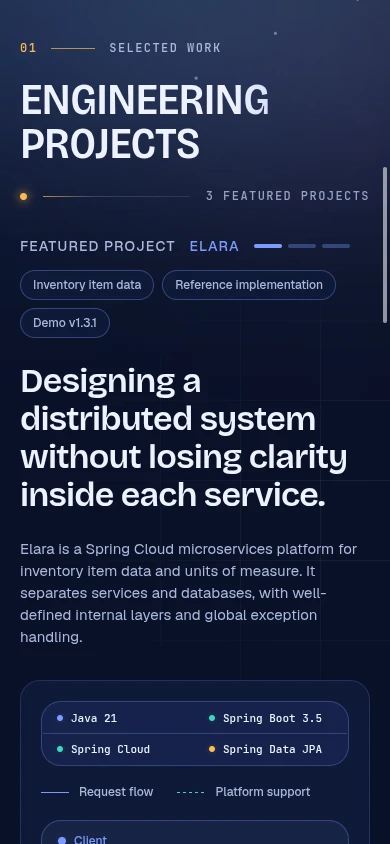
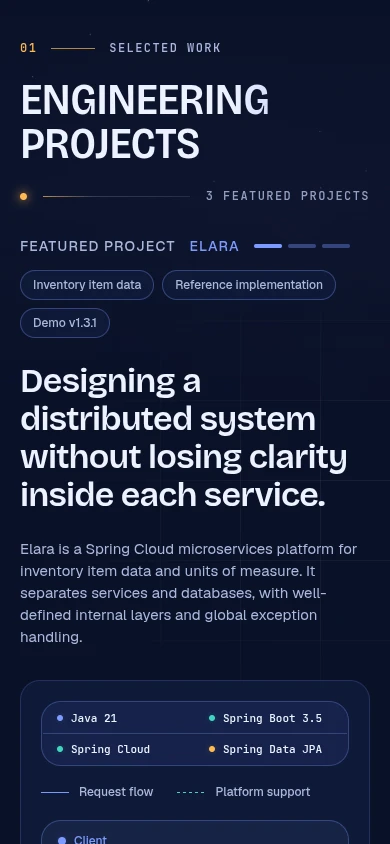
fix(portfolio): continue the hero atmosphere into the featured area
Add the Figma seam fade and responsive continuation particle layers to the Featured area, and fade the Hero atmosphere at the Hero frame so the boundary has no hard horizontal line.

Refs #9

Changed region(s): [[0.0, 0.0, 1.0, 0.4005]]

diff --git a/src/styles/tokens.css b/src/styles/tokens.css
@@ -55,6 +55,9 @@
   --color-glow-coral: rgb(255 123 142 / 14%);
   --color-glow-services: rgb(63 214 192 / 28%);
   --color-glow-data: rgb(255 184 77 / 28%);
+  --color-seam-fade-strong: rgb(10 17 40 / 85%);
+  --color-seam-fade-mid: rgb(10 17 40 / 35%);
+  --color-seam-fade-clear: rgb(10 17 40 / 0%);
 
   /* Tier (layer) colors */
   --color-tier-edge: var(--color-blue-400);

diff --git a/docs/evidence/projects-elara/README.md b/docs/evidence/projects-elara/README.md
@@ -19,8 +19,10 @@ primitives and the Elara Featured project.
 | `button-focus-1440.webp` | 1440     | GitHub organization link, keyboard focus |
 | `nav-focus-390.webp`     | 390×844  | After the mobile Projects nav click      |
 
-The full-page before and after pairs show that the Hero is unchanged. The section-only
-shots are the direct comparison against the Figma frames at 1440, 768, and 390.
+The Hero content is unchanged. The Hero atmosphere now fades at the Hero frame and the
+Featured area continues it with the Figma seam fade and continuation particles, so there is
+no horizontal seam between the two sections. The section-only shots are the direct
+comparison against the Figma frames at 1440, 768, and 390.
 
 ## Browser checks
 
